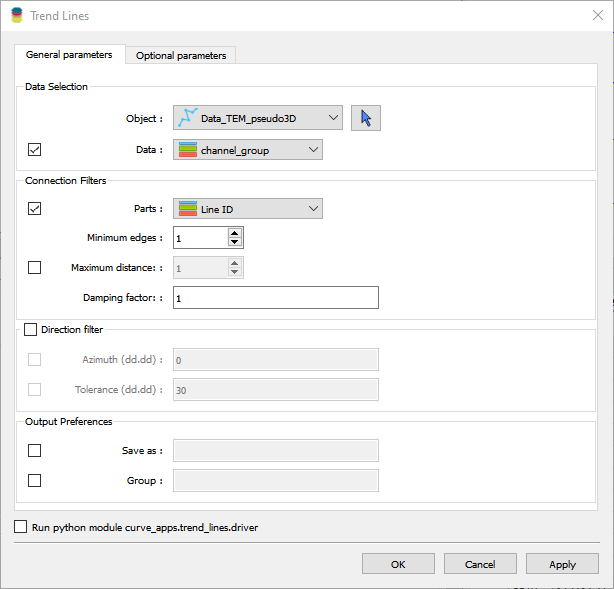
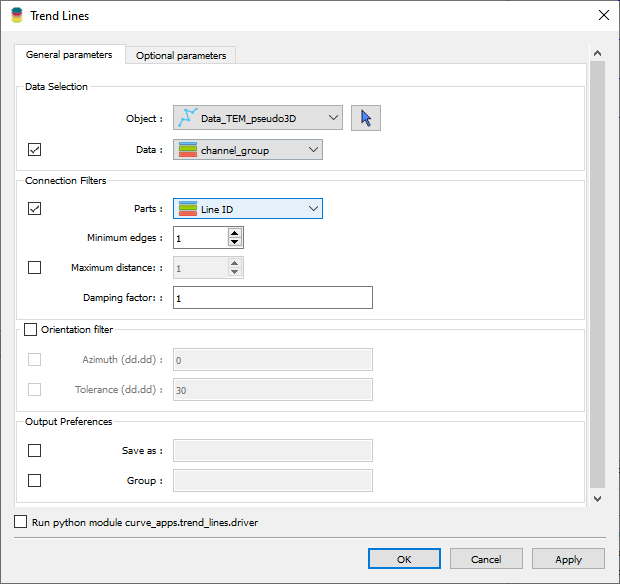
Add content. Edit uijson

diff --git a/docs/source/trend_lines.rst b/docs/source/trend_lines.rst
@@ -26,18 +26,87 @@ Data Selection
 ^^^^^^^^^^^^^^
 
  - **Object**: Select the target ``Points`` or ``Curve`` object from the dropdown list.
- - **Parts**: [Optional] Referenced data defining the unique parts of the object. Connections between vertices belong to the same part are ignored.
  - **Data**: [Optional] Referenced data defining properties to link with segments.
 
-Detection Parameters
-^^^^^^^^^^^^^^^^^^^^
+Connection Filters
+^^^^^^^^^^^^^^^^^^
+ - **Parts**: [Optional] Referenced data defining the unique parts of the object. Connections between vertices belong to the same part are ignored.
  - **Minimum edges**: Minimum number of segments for a trend line to be valid.
  - **Maximum distance**: Maximum distance between two points to consider for trend line detection.
  - **Damping factor**: Threshold parameter [0, 1] penalizing changes in direction between connected segments.
     At 0, the direction change is not penalized, and at 1, the direction change is maximally penalized.
 
 
-Direction Filter
-^^^^^^^^^^^^^^^^
+Orientation Filter
+^^^^^^^^^^^^^^^^^^
  - **Azimuth**: Filtering of segments orientation based on the azimuth angle.
  - **Tolerance**: Tolerance on deviation of segments orientation from the reference azimuth angle.
+
+Methodology
+-----------
+
+The conversion from scatter point data to trend lines is achieved by the following steps:
+
+1. The selected ``Points`` or ``Curve`` object's vertices are triangulated to form a Delaunay mesh.
+   The mesh is used to identify the initial edges connecting the vertices.
+
+2. Connections get filtered out based on:
+    - Connection too long, defined by the ``Maximum distance`` parameter
+    - Segments connecting vertices on the same part, as defined by the ``Parts`` data.
+    - Segments orientation deviating from the reference ``Azimuth`` and ``Tolerance`` parameters.
+
+   The remaining edges move forward to the detection step.
+
+3. The remaining edges are visited exhaustively to find the neighbouring connection that minimizes the tortuosity (:math:`\delta`) of the path measured as
+
+    .. math::
+
+        \delta = \theta^{(1-\alpha)} * L
+
+    where the angle :math:`\theta` is the change in direction between the incoming and outgoing segments, :math:`L` is the length of the outgoing segment, and :math:`\alpha` is the `Damping factor`.
+    The path is updated with the connection with the lowest :math:`\delta` value. This process is repeated recursively until there is no valid neighbouring edge to form a connection with. Note that for
+    :math:`\alpha=1`, only the length of the outgoing segment is considered.
+
+
+Example
+-------
+
+This section demonstrates the effect of various detection parameters on a training dataset provided `here <https://github.com/MiraGeoscience/curve-apps/tree/main/edge_detection-assets>`__.
+The goal is to extract trend lines from anomaly picks assigned to a ``Curve`` object. We begin with default parameters and then explore the effect of changing each parameter independently.
+
+.. list-table::
+   :widths: 25 25 25
+   :header-rows: 1
+
+   * - Input data
+     - Default parameters
+     - Result
+
+   * - .. figure:: ./images/trend_lines/example_data.png
+            :align: center
+            :width: 300
+     - .. figure:: ./images/trend_lines/trend_lines_ui.png
+            :align: center
+            :width: 300
+     - .. figure:: ./images/trend_lines/example_no_filter.png
+            :align: center
+            :width: 300
+
+Note the we have recovered line paths that connect our input data, but many of those segments are not desirable. They are either
+connecting points that are too far apart or allowed to change direction rapidly. We can improve the results by adjusting the parameters.
+
+.. list-table::
+   :widths: 25 25
+   :header-rows: 1
+
+   * - Detection parameters
+     - Result
+
+   * - .. figure:: ./images/trend_lines/example_filtered_ui.png
+            :align: center
+            :width: 300
+     - .. figure:: ./images/trend_lines/example_filtered.png
+            :align: center
+            :width: 300
+
+By filtering out connections based on rapid changes in direction and maximum length, we can obtain trend lines that would better fit a manual picking.
